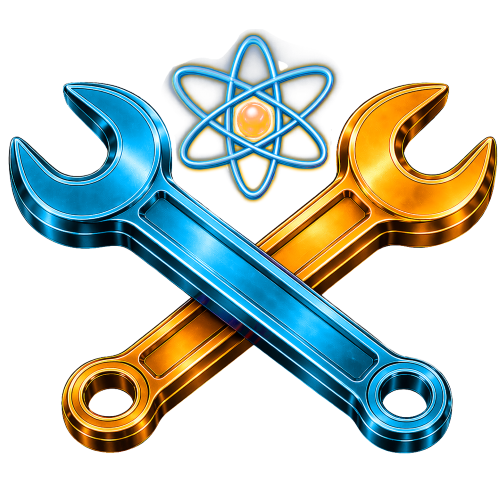
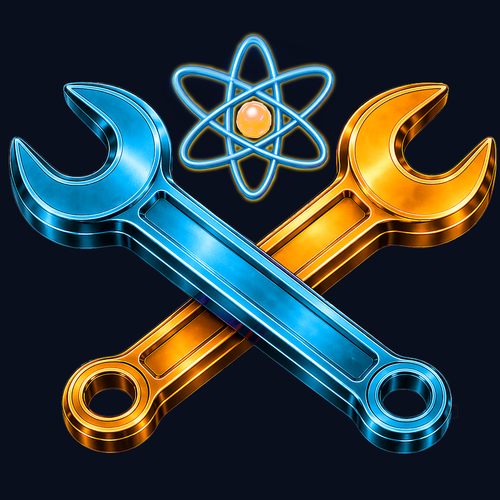
pwa icon1

diff --git a/frontend/pages/techboard/index.js b/frontend/pages/techboard/index.js
@@ -893,14 +893,15 @@ export default function TechDashboardTest() {
       <Head>
         <title>Tech Board | Atomic Repair</title>
         <meta name="description" content="Atomic Repair technician board" />
-        <meta name="theme-color" content="#22D3EE" />
+        <meta name="theme-color" content="#0A0F1E" />
+        <meta name="background-color" content="#0A0F1E" />
         <meta name="apple-mobile-web-app-capable" content="yes" />
         <meta name="apple-mobile-web-app-status-bar-style" content="black-translucent" />
         <meta name="apple-mobile-web-app-title" content="Tech Board" />
-        <link rel="manifest" href="/manifest-techboard.json?v=2" />
+        <link rel="manifest" href="/manifest-techboard.json?v=3" />
         {/* iOS Add to Home Screen uses apple-touch-icon, not manifest icons */}
-        <link rel="apple-touch-icon" sizes="192x192" href="/atomwrenches-192x192.png?v=2" />
-        <link rel="apple-touch-icon" href="/atomwrenches-192x192.png?v=2" />
+        <link rel="apple-touch-icon" sizes="192x192" href="/atomwrenches-192x192.png?v=3" />
+        <link rel="apple-touch-icon" href="/atomwrenches-192x192.png?v=3" />
         <link rel="preconnect" href="https://fonts.googleapis.com" />
         <link rel="preconnect" href="https://fonts.gstatic.com" crossOrigin="anonymous" />
         <link
